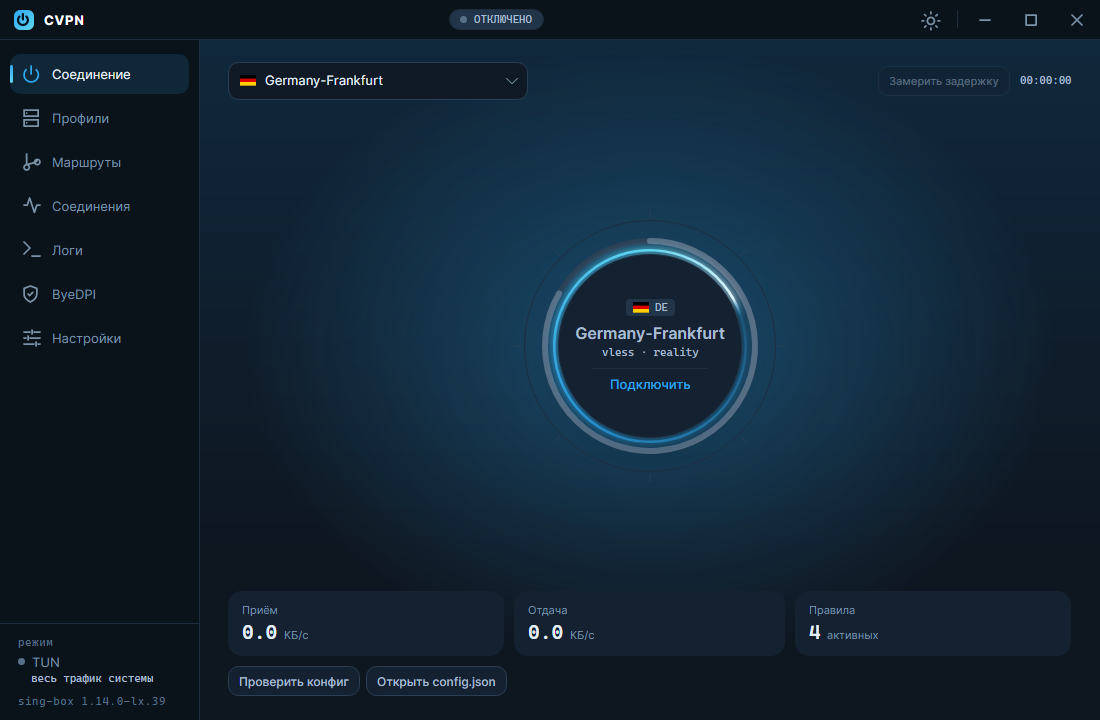
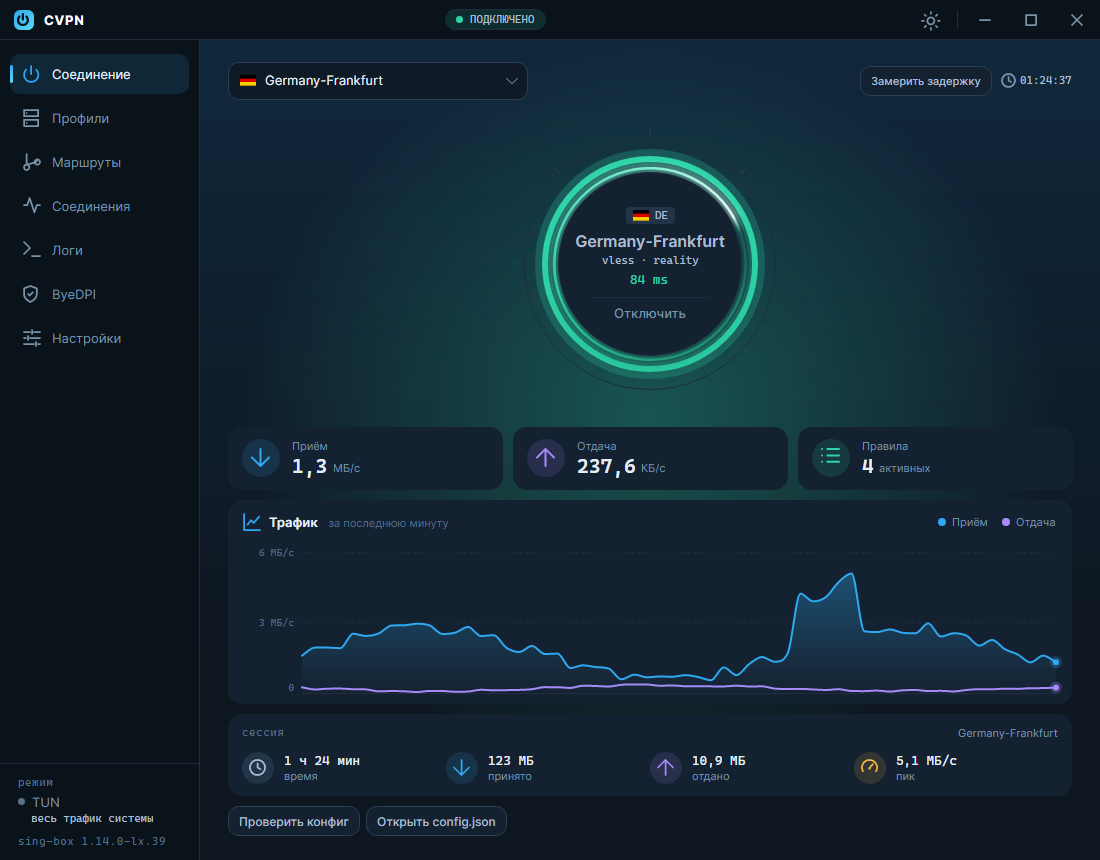
Релиз 1.2.0: текст релиза, README с новыми снимками и бейджем скачиваний
- Текст релиза 1.2.0: обновление из приложения, исправление трея
- README на двух языках: новые снимки (главная, маршруты, соединения, логи,
  телефон), бейдж «скачано», обновление из приложения, готовые правила
- --demo показывает подключённое состояние для снимков

diff --git a/CVPN.Core/ViewModels/MainViewModel.cs b/CVPN.Core/ViewModels/MainViewModel.cs
@@ -497,6 +497,18 @@ public sealed class MainViewModel : ObservableObject
         });
     }
 
+#if DEBUG
+    /// <summary>Отладочный снимок: показать подключённое состояние без ядра.</summary>
+    public void ShowDemoConnected(long up, long down)
+    {
+        State = TunnelState.Connected;
+        Uptime = "01:24:37";
+        (Upload, UploadUnit) = ByteFormat.Rate(up);
+        (Download, DownloadUnit) = ByteFormat.Rate(down);
+        if (Active is not null) Active.LatencyMs = 84;
+    }
+#endif
+
     /// <summary>
     /// Перед установкой обновления: туннель снимается штатно - с возвратом прокси
     /// и kill switch, - а настройки сохраняются. Иначе установщик застал бы

diff --git a/CVPN/App.axaml.cs b/CVPN/App.axaml.cs
@@ -188,7 +188,8 @@ public partial class App : Application
             new Services.ReleaseAsset("CVPN-1.2.0-portable.zip", "https://github.com", 88_953_583, null)
         ]));
 
-        shell.Session.Begin("Amsterdam - Reality");
+        shell.Session.Begin(shell.Active?.Name ?? "Demo", DateTimeOffset.Now.AddSeconds(-5077));
+        long lastUp = 0, lastDown = 0;
         for (var i = 0; i < 60; i++)
         {
             var wave = Math.Sin(i / 6.0) * 0.5 + 0.5;
@@ -198,7 +199,10 @@ public partial class App : Application
 
             shell.Session.Add(up, down);
             shell.Traffic.Push(up, down);
+            (lastUp, lastDown) = (up, down);
         }
+
+        shell.ShowDemoConnected(lastUp, lastDown);
 
         foreach (var line in (string[])
         [

diff --git a/CVPN.Core/Models/SessionStats.cs b/CVPN.Core/Models/SessionStats.cs
@@ -70,12 +70,14 @@ public sealed class SessionStats : ObservableObject
     [JsonIgnore]
     public bool HasData => Started is not null;
 
-    public void Begin(string server)
+    /// <param name="server">Имя сервера.</param>
+    /// <param name="started">Начало сессии; по умолчанию - сейчас.</param>
+    public void Begin(string server, DateTimeOffset? started = null)
     {
         _upload = _download = _peakUpload = _peakDownload = 0;
 
         Server = server;
-        Started = DateTimeOffset.Now;
+        Started = started ?? DateTimeOffset.Now;
 
         RaiseAll();
     }

diff --git a/packaging/release-notes.md b/packaging/release-notes.md
@@ -1,44 +1,37 @@
-Живая статистика с графиком скорости, новые страницы «Соединения», «Логи» и «Маршруты». С ними проще понять, что происходит с трафиком, и настроить правила без знания sing-box.
+Обновления прямо из приложения и исправление «застрявшего» sing-box после сворачивания в трей.
 
-## Главная страница
+## Новое: обновление из приложения
 
-- **График скорости за последнюю минуту:** приём и отдача двумя плавными линиями, шкала подстраивается под канал. После отключения график остаётся до следующего подключения.
-- **Карточки скорости и правил** получили цветные значки: приём лазурный, отдача фиолетовая. Те же цвета на графике.
-- **Итоги сессии** (время, принято, отдано, пик) тоже со значками.
+Больше не нужно скачивать новую версию с GitHub и ставить её вручную. Когда выйдет следующая версия, в «Настройки → Обновления» появится кнопка **«Обновить»**:
 
-## Соединения
+1. Приложение скачает файл новой версии, полоса покажет, сколько осталось. Загрузку можно отменить.
+2. Файл сверяется с контрольной суммой SHA-256, которую GitHub считает сам. Повреждённый или подменённый файл не ставится и удаляется.
+3. Туннель отключается только после удачной загрузки. Если сеть оборвётся на середине, вы не останетесь без VPN.
+4. Новая версия ставится и открывается сама.
 
-- **Сводка сверху:** всего соединений, сколько через прокси, сколько напрямую и общий трафик. Под ней полоса, которая показывает доли прокси, прямых соединений и ByeDPI.
-- **Поиск** по домену, процессу и правилу.
-- **В каждой строке:**
-  - значок способа выхода: глобус для прокси, стрелка для прямого, молния для ByeDPI;
-  - приём, отдача и длительность;
-  - полоска, которая сравнивает трафик соединения с самым тяжёлым в списке.
-- Кнопки «Напрямую», «Через прокси» и «Блок» с иконками.
+Как это происходит на каждой платформе:
 
-## Логи
+| Установка | Что происходит |
+|---|---|
+| Windows, установщик | Установщик в тихом режиме с окном прогресса, Windows один раз спросит права администратора. Выбранные компоненты сохраняются. |
+| Windows, портативная | Новые файлы встают поверх папки приложения. |
+| Linux, AppImage | Новый файл заменяет старый. |
+| Linux, .deb | Пакет ставится через `pkexec`, система спросит пароль. |
+| Android | Открывается системный установщик. В первый раз Android попросит разрешить CVPN устанавливать приложения - настройки откроются сами. |
 
-- **Строки размечены:** время, уровень (`INF`, `WRN`, `ERR`), источник и текст. Ошибки подсвечены красным, предупреждения жёлтым.
-- **Поиск** по логу и **фильтр** «Все / Предупреждения / Ошибки» со счётчиками.
-- **Пауза:** список замирает, можно спокойно читать. Новые строки копятся и появятся после «Продолжить».
-- **Пролистали вверх** - автопрокрутка встаёт сама, вернуться вниз можно кнопкой «К последним».
-- **Копирование:** строки выделяются щелчком, несколько - с Ctrl или Shift. Скопировать можно Ctrl+C, Ctrl+A выделяет всё. Есть и меню по правой кнопке мыши.
+Сам не обновляется только распакованный архив `tar.gz`: для него кнопка ведёт на страницу релиза.
 
-## Маршруты
+> Эту версию нужно поставить вручную, как обычно: в 1.1.0 и раньше кнопки «Обновить» ещё нет. Следующие версии придут уже через приложение.
 
-- **Подсказка «Как это работает»:** что совпадает, куда отправить и в каком порядке проверяются правила. Закрывается кнопкой «Понятно».
-- **Готовые правила в одно нажатие:**
-  - блокировать рекламу;
-  - российские сайты напрямую;
-  - YouTube через прокси;
-  - Telegram через прокси.
-- **Своё правило по схеме «Что / Куда»:** вместо `domain_suffix` и подобного - понятные названия («Домен и поддомены», «Страна по IP», «Программа»). Под полем ввода объясняется, что именно совпадёт.
-- **Список правил:** у каждого правила значок вида, у правила по стране флажок, цветная метка действия. Выключенные правила бледнеют.
-- **«Всё остальное»** выбирается двумя кнопками сразу после списка.
+## Исправлено
 
-## Трей
+- **sing-box оставался висеть после сворачивания в трей.** Если включено «Подключаться при запуске», открытие окна из трея запускало подключение ещё раз. Второе ядро перехватывало управление, и первое уже нельзя было ни отключить, ни остановить при выходе - только через диспетчер задач. Теперь автоподключение срабатывает один раз за запуск, а подключение поверх работающего туннеля не начинается.
+- **При автозапуске с Windows окно не открывалось из трея:** оно пряталось при каждом показе, а не только при старте.
+- **Обновление поверх с установленной службой туннеля:** установщик теперь останавливает службу перед копированием файлов и запускает её после. Раньше он мог упереться в занятые файлы.
 
-- У пунктов меню значка появились иконки, у серверов в подменю - флажки стран.
+## Прочее
+
+- К каждому релизу прикладывается `SHA256SUMS.txt` с контрольными суммами всех файлов.
 
 ## Файлы
 
@@ -50,8 +43,9 @@
 | `CVPN-<версия>-x86_64.AppImage` | Любой Linux x64: `chmod +x` и запустить |
 | `CVPN-<версия>-linux-x64.tar.gz` | Linux x64, архив |
 | `CVPN-<версия>-android-arm64.apk` | Android 6+ (arm64) |
+| `SHA256SUMS.txt` | Контрольные суммы файлов |
 
-Ставится поверх 1.0.x, профили, правила и настройки сохраняются. .NET ставить не нужно: он уже внутри.
+Ставится поверх 1.0.x и 1.1.x, профили, правила и настройки сохраняются. .NET ставить не нужно: он уже внутри.
 
 ## Важно знать
 

diff --git a/README.en.md b/README.en.md
@@ -9,6 +9,7 @@
 Windows · Linux · Android
 
 [![Release](https://img.shields.io/github/v/release/13cyberpunk02/CVPN.Crossplatform)](https://github.com/13cyberpunk02/CVPN.Crossplatform/releases/latest)
+[![Downloads](https://img.shields.io/github/downloads/13cyberpunk02/CVPN.Crossplatform/total?color=2ea8f0)](https://github.com/13cyberpunk02/CVPN.Crossplatform/releases)
 [![Tests](https://github.com/13cyberpunk02/CVPN.Crossplatform/actions/workflows/tests.yml/badge.svg)](https://github.com/13cyberpunk02/CVPN.Crossplatform/actions/workflows/tests.yml)
 [![License: MIT](https://img.shields.io/badge/license-MIT-blue)](LICENSE)
 
@@ -18,7 +19,7 @@ Windows · Linux · Android
 
 <p align="center">
   <img src="docs/screenshots/connection-dark.png" width="49%" alt="Connection, dark theme" />
-  <img src="docs/screenshots/profiles-light.png" width="49%" alt="Profiles, light theme" />
+  <img src="docs/screenshots/routing-light.png" width="49%" alt="Routing, light theme" />
 </p>
 
 CVPN builds a sing-box configuration from your server profiles and routing rules, runs the
@@ -38,22 +39,25 @@ version are read as is.
 - **Profiles:** `vless://`, `anytls://`, `naive+https://` links, subscriptions, importing a
   sing-box configuration from a file, export and sharing, latency check for all servers.
 - **Routing:** rules by geosite, geoip, domain, suffix, keyword, process and your own `.srs`
-  rule sets. Actions: via proxy, direct, via ByeDPI, block. Several rule sets and a
-  "where will this domain go" check.
+  rule sets. Actions: via proxy, direct, via ByeDPI, block. One-tap quick rules (ads,
+  Russian sites, YouTube, Telegram), several rule sets and a "where will this site go" check.
 - **ByeDPI** built in: sites routed "via ByeDPI" go straight to the internet, with the start
   of the connection disguised from DPI.
 - **Modes:** TUN (all system traffic) or system proxy.
 - **Kill switch:** Windows Firewall, nftables on Linux, the system "Always-on VPN" on Android.
 - **Tunnel service:** TUN without running the app as administrator (a Windows service,
   a systemd unit).
-- **Monitoring:** active connections with the rule each one matched, speed, session totals,
-  core log.
+- **Monitoring:** a speed chart for the last minute and session totals; active connections
+  with search and the rule each one matched; a core log with search, level filter, pause
+  and line copying.
+- **In-app updates:** a new version downloads, is checked against its SHA-256 and installs
+  itself on Windows, Linux (AppImage, .deb) and Android.
 - **Comfort:** auto-select the fastest server, auto-connect, start with the system, tray
   icon, dark and light themes, English and Russian.
 
 <p align="center">
-  <img src="docs/screenshots/routing-dark.png" width="49%" alt="Routing" />
-  <img src="docs/screenshots/settings-light.png" width="49%" alt="Settings" />
+  <img src="docs/screenshots/connections-dark.png" width="49%" alt="Connections" />
+  <img src="docs/screenshots/logs-light.png" width="49%" alt="Logs" />
 </p>
 
 ## Install
@@ -70,12 +74,16 @@ You don't need to install .NET: it is bundled.
 | Linux x64, archive | `CVPN-<version>-linux-x64.tar.gz` | Unpack, run `./CVPN` |
 | Android 6+ (arm64) | `CVPN-<version>-android-arm64.apk` | Open the file on the phone, allow installation |
 
+After that CVPN updates itself: "Settings → Updates → Update" (from version 1.2.0 on).
+Only an unpacked `tar.gz` cannot update itself: for it the button opens the release page.
+
 ## Quick start
 
-1. **Profiles**: paste a server link and press "Parse link", or enter a subscription URL.
+1. **Profiles**: copy a server link or a subscription URL and press "Paste from clipboard".
 2. **Connection**: pick a server and press the dial.
 3. **Routing**, optionally: what goes direct, what via the proxy, what via ByeDPI.
-   Rules are checked top to bottom; a separate setting at the bottom covers everything else.
+   You can start with the quick rules. Rules are checked top to bottom; a separate setting
+   at the bottom covers everything else.
 
 TUN mode captures all system traffic and needs privileges. Without them, use system proxy
 mode: turn off "TUN mode" in the settings.
@@ -108,12 +116,20 @@ TUN needs administrator rights. Three options:
 
 ### Android
 
+<p align="center">
+  <img src="docs/screenshots/phone-connection.png" width="32%" alt="Connection on a phone" />
+  <img src="docs/screenshots/phone-routing.png" width="32%" alt="Routing on a phone" />
+  <img src="docs/screenshots/phone-logs.png" width="32%" alt="Logs on a phone" />
+</p>
+
 - On the first connection the system asks for VPN permission.
 - **Kill switch** is enabled in Android settings: "Network → VPN → CVPN → Always-on VPN"
   and "Block connections without VPN".
 - ByeDPI and the core are built in; no paths to set.
 - arm64 only, which covers almost every phone from recent years.
 - NaiveProxy is not available on Android, same as in the official sing-box build.
+- On the first in-app update Android asks to let CVPN install apps; the settings open by
+  themselves.
 
 ## Data
 
@@ -203,7 +219,8 @@ non-Latin characters, that is the Mono AOT compiler: set a Latin temp folder,
 **Debugging.** `CVPN_DATA_DIR=<folder>` sets a custom data folder. In a Debug build:
 `--page=<connection|profiles|routing|connections|logs|byedpi|settings>`,
 `--theme=dark|light`, `--snapshot=file.png[|width[|height]]` and `--scroll-end` render
-the window to a PNG and exit.
+the window to a PNG and exit, `--demo` fills in made-up traffic, connections and log lines
+for screenshots.
 
 </details>
 
